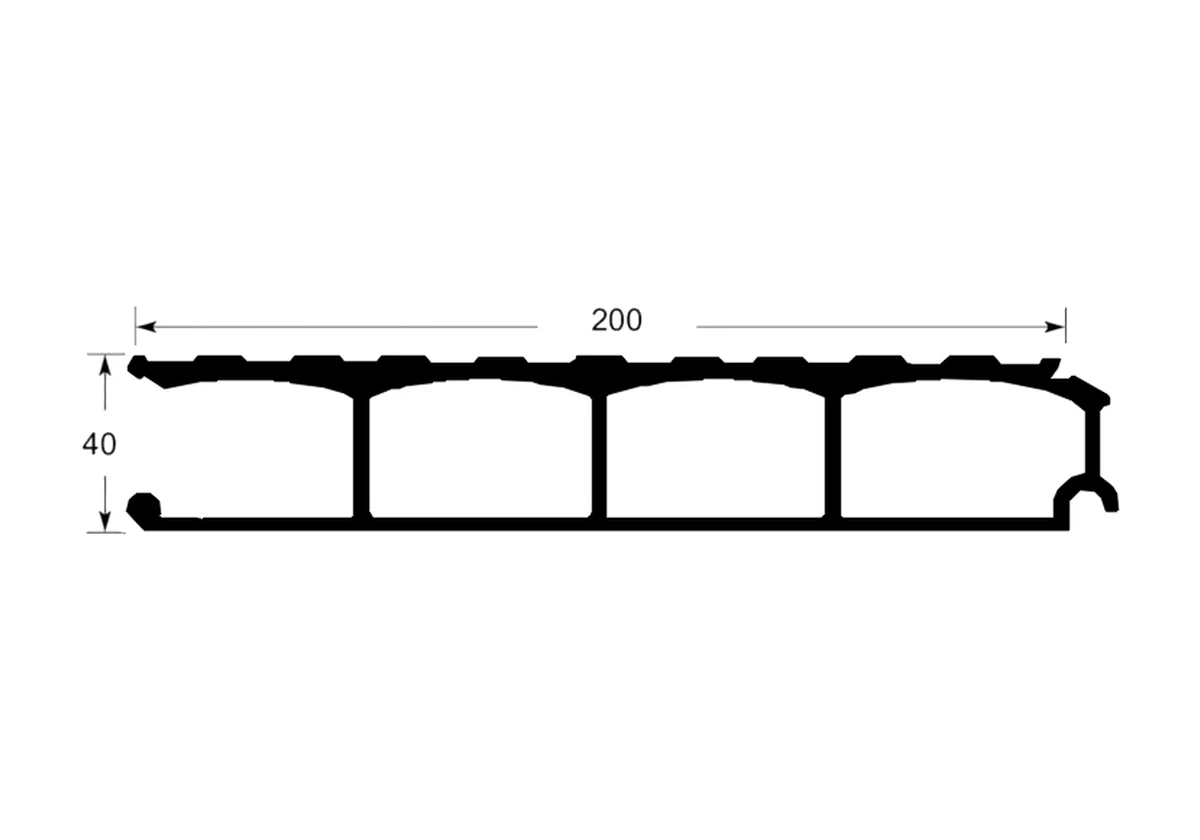
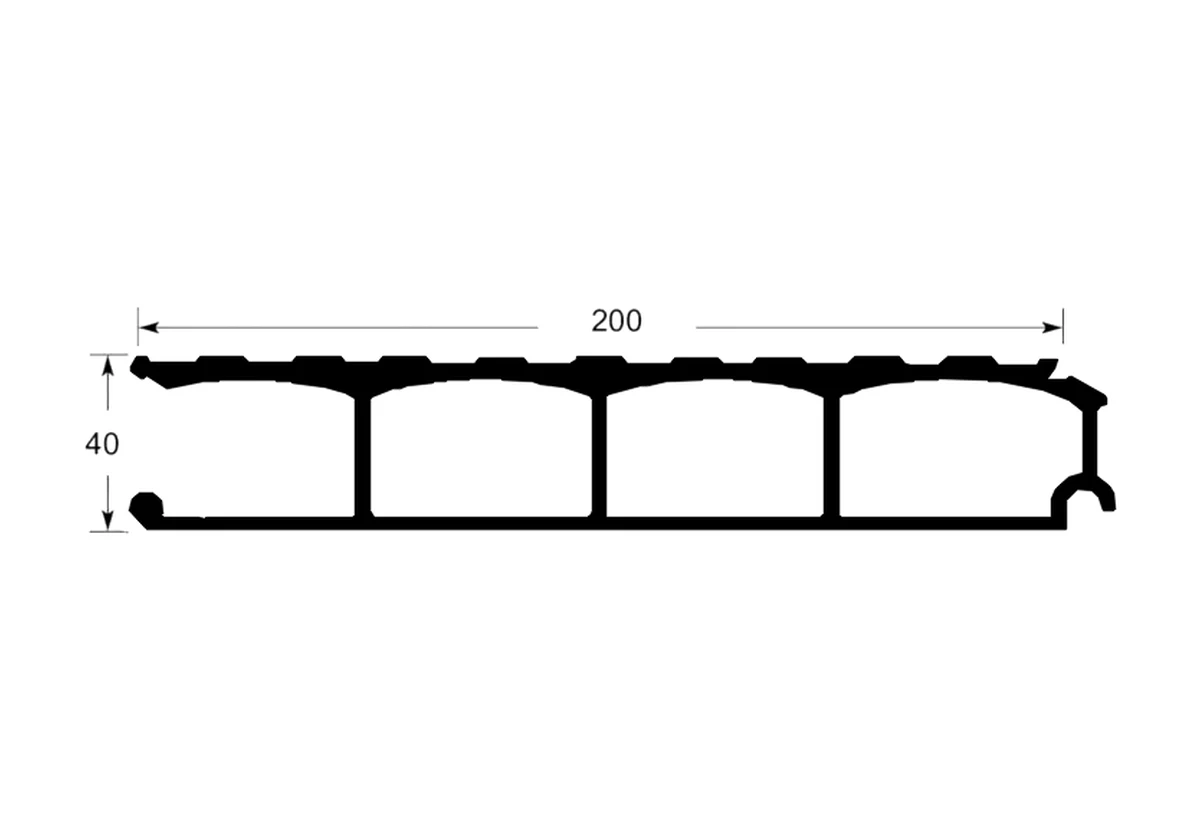
226001 zárt padló profil 30/200: ESAL 11258 rajza, fotója és adatai (3,870 kg/fm, 7,5 m), egységes rajz 200 × 30 méretezéssel
Claude-Session: https://claude.ai/code/session_01GqcGcrqDWYvNfyrVUkczEM

diff --git a/scripts/termekadatok/esal_pianali.py b/scripts/termekadatok/esal_pianali.py
@@ -1,0 +1,57 @@
+"""ESAL (Forlì) – padlóprofilok (Pianali) a „Catalogo Sponde 2020” katalógus képes oldalairól
+(data/forras/esal_sponde_2020.pdf). Ezek a lapok nem táblázatosak (esal.py), hanem profilonként egy fotó és
+egy méretezett keresztmetszet-rajz, alatta a kód és az adatok – ezért a kivágás kézzel rögzített.
+
+A Quadris kérésére: 226001 (zárt padló profil 30/200 mm) = ESAL 11258 „Pianale da 30 mm rigato scatolato”.
+
+Használat: python3 scripts/termekadatok/esal_pianali.py
+"""
+
+import sys
+from pathlib import Path
+
+import numpy as np
+import pymupdf
+from PIL import Image
+
+sys.path.insert(0, str(Path(__file__).parent))
+from common import ROOT, clear_images, load_products, save_image, update_enrichment  # noqa: E402
+
+SOURCE = "ESAL padlóprofil"
+PDF = ROOT / "data/forras/esal_sponde_2020.pdf"
+URL = "https://esalforli.com/public/Catalogo-Sponde-2020-Esal-Forli.pdf"
+# slug -> (ESAL kód, oldal, rajz kivágás [pt], fotó kivágás [pt], adatok)
+ITEMS = {
+    "226001-zart-padlo-profil-30-200-mm": ("11258", 69, (165, 250, 424, 318), (128, 76, 476, 214),
+        {"Megnevezés (gyári)": "Pianale da 30 mm rigato scatolato – zárt (dobozos), bordázott padlóprofil",
+         "Szélesség": "200 mm", "Magasság": "30 mm", "Tömeg": "3,870 kg/fm", "Szálhossz": "7,5 m",
+         "Anyag": "alumínium EN AW-6060 T5"}),
+}
+
+
+def render(page, box, dpi=400):
+    zoom = dpi / 72
+    pix = page.get_pixmap(matrix=pymupdf.Matrix(zoom, zoom), clip=pymupdf.Rect(*box), alpha=False)
+    img = Image.frombytes("RGB", (pix.width, pix.height), pix.samples)
+    ys, xs = np.where(np.asarray(img.convert("L")) < 235)
+    return img.crop((max(xs.min() - 16, 0), max(ys.min() - 16, 0), min(xs.max() + 16, img.width), min(ys.max() + 16, img.height)))
+
+
+def main():
+    doc = pymupdf.open(PDF)
+    enrichment = {}
+    for p in load_products():
+        if p["slug"] not in ITEMS:
+            continue
+        code, pno, dbox, pbox, specs = ITEMS[p["slug"]]
+        clear_images(p["slug"])
+        page = doc[pno - 1]
+        images = [save_image(render(page, dbox), p["slug"], 1), save_image(render(page, pbox, 200), p["slug"], 2)]
+        enrichment[p["slug"]] = {"source": SOURCE, "sourceUrl": f"{URL}#page={pno}", "sourceTitle": f"ESAL {code}",
+                                 "matchedCode": code, "specs": {"Cikkszám (gyártói)": code, **specs}, "images": images}
+    update_enrichment(enrichment, SOURCE)
+    print(f"{SOURCE}: {len(enrichment)} termék")
+
+
+if __name__ == "__main__":
+    main()

diff --git a/scripts/termekadatok/alvaz_rajzok.py b/scripts/termekadatok/alvaz_rajzok.py
@@ -59,6 +59,7 @@ PROFILES = {
     "201094-targonca-utkozo-profil": ("targonca-utkozo", 37.5),
     # Alumínium padló profilok (a kulcs első tagja az alkategória, a lépték alkategóriánként közös)
     "221902-bordazott-padlo-profil-200-40-mm": ("padlo-profilok", 200),
+    "226001-zart-padlo-profil-30-200-mm": ("padlo-profilok", 200),  # ESAL 11258
     "227543-30-padlo-profil-200-mm": ("padlo-profilok", 200),
     "227543-30-padlo-profil-200-mm-elox": ("padlo-profilok", 200),
     "222233-rampa-szego-g-profil": ("rampa-profilok", 80),
@@ -80,7 +81,8 @@ CLEAN = {"202388-15-70-mm-keretprofil-elox-cd": ("40", "109", 40)}
 # apró, olvashatatlan méretezésű rajzok: csak a profil marad meg (a régi méretvonalak nélkül), és az etalon
 # stílusában új fő méretek kerülnek rá: (szélesség mm, magasság mm)
 # (szélesség, magasság, a szélesség-méret jobb végének távolsága a profil jobb szélétől mm-ben)
-REDIM = {"227543-30-padlo-profil-200-mm": ("200", "30", 5), "227543-30-padlo-profil-200-mm-elox": ("200", "30", 5)}
+REDIM = {"227543-30-padlo-profil-200-mm": ("200", "30", 5), "227543-30-padlo-profil-200-mm-elox": ("200", "30", 5),
+         "226001-zart-padlo-profil-30-200-mm": ("200", "30", 15)}
 # Constellium rajzok: a forrás a constellium.py profilkiválasztása (csak a profil körvonala, a méretek nélkül)
 CONSTELLIUM = {"227543-30-padlo-profil-200-mm": "7543", "227543-30-padlo-profil-200-mm-elox": "7543"}
 # törésvonallal rövidítve rajzolt profilok valós arányra nyújtása: (sor, beszúrt sorok száma) – a beszúrt

diff --git a/scripts/termekadatok/osszes.py b/scripts/termekadatok/osszes.py
@@ -14,7 +14,7 @@ HERE = Path(__file__).parent
 sys.path.insert(0, str(HERE))
 from common import ENRICHMENT, IMAGE_DIR  # noqa: E402
 
-SCRIPTS = ["ital_accessori", "woocommerce", "fts_katalogus", "pastore", "caralu", "alusv", "adaico", "adaico_katalogus", "sandprofile", "sandprofile_kiegeszites", "sitemap_kereso", "parlok", "jonesco", "gnc", "gnc_szinek", "pommier", "pommier_katalogus", "reall", "cimaplast", "metra", "bodega", "exlabesa", "kety", "polser", "versus", "versus_dtl", "versus_katalogus", "edscha", "bmc", "alcomet", "kloeckner", "dost", "plasticpadana", "copar", "industrilas", "edscha_compact", "adaico_slider", "mpsteel", "cargoframes", "wistra", "miederhoff", "takler", "constellium", "nevbol", "lemezmintak", "alvaz_rajzok"]
+SCRIPTS = ["ital_accessori", "woocommerce", "fts_katalogus", "pastore", "caralu", "alusv", "adaico", "adaico_katalogus", "sandprofile", "sandprofile_kiegeszites", "sitemap_kereso", "parlok", "jonesco", "gnc", "gnc_szinek", "pommier", "pommier_katalogus", "reall", "cimaplast", "metra", "bodega", "exlabesa", "kety", "polser", "versus", "versus_dtl", "versus_katalogus", "edscha", "bmc", "alcomet", "kloeckner", "dost", "plasticpadana", "copar", "industrilas", "edscha_compact", "adaico_slider", "mpsteel", "cargoframes", "wistra", "miederhoff", "takler", "constellium", "esal_pianali", "nevbol", "lemezmintak", "alvaz_rajzok"]
 
 for name in SCRIPTS + ["szoveg_eltavolitas"]:
     print(f"\n=== {name} ===", flush=True)
